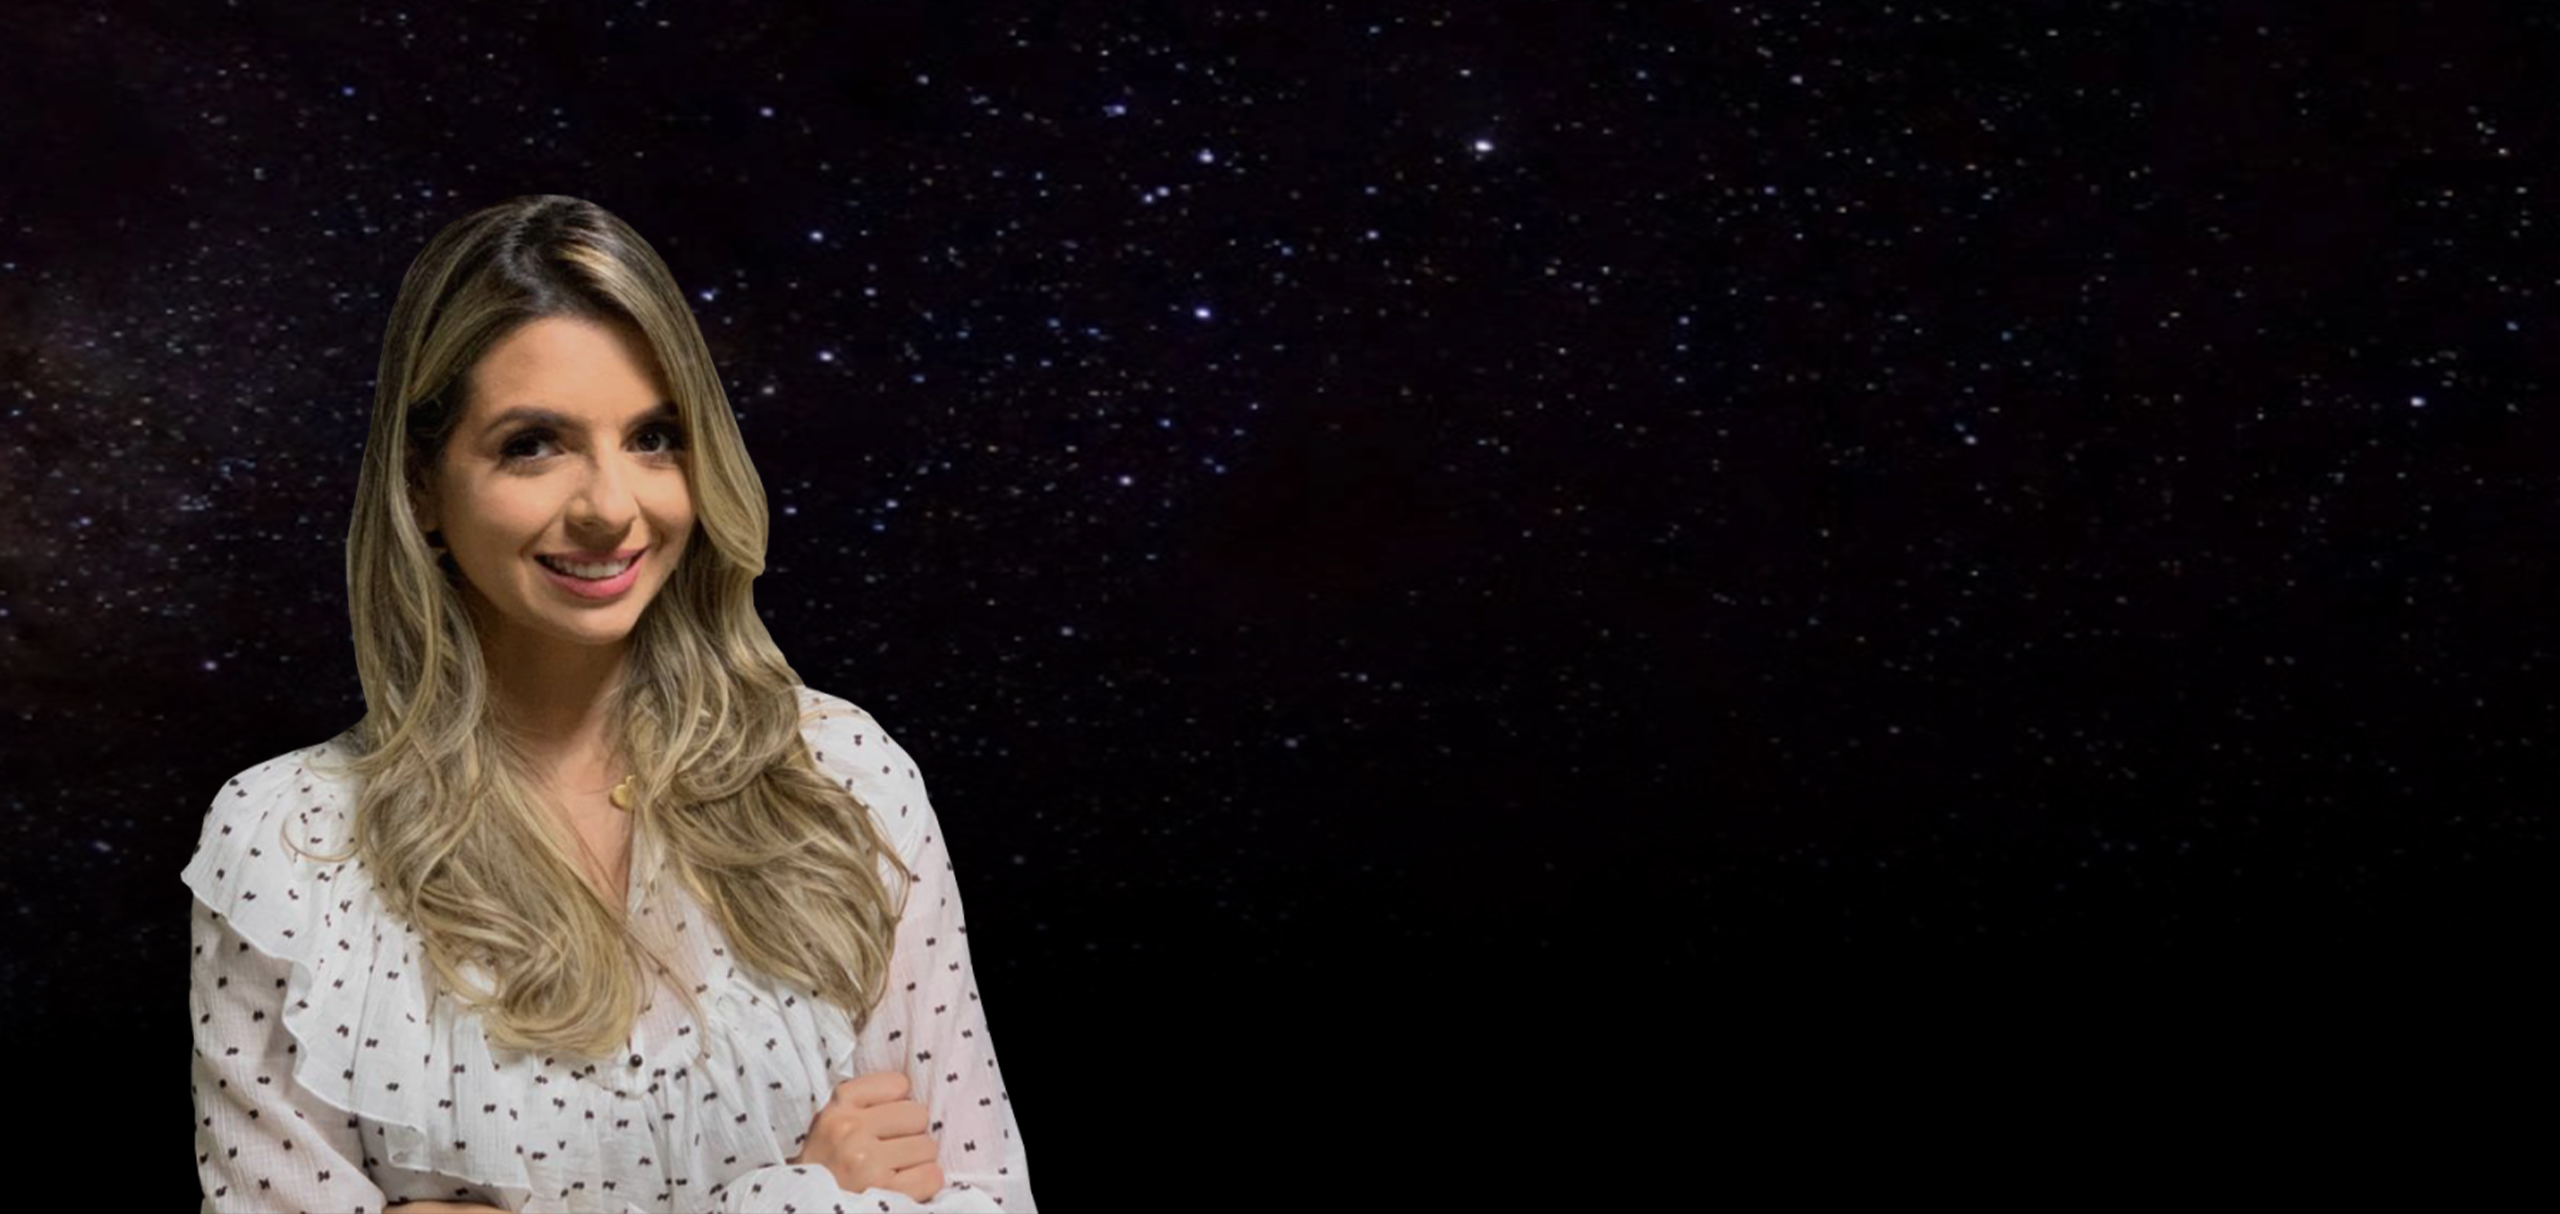
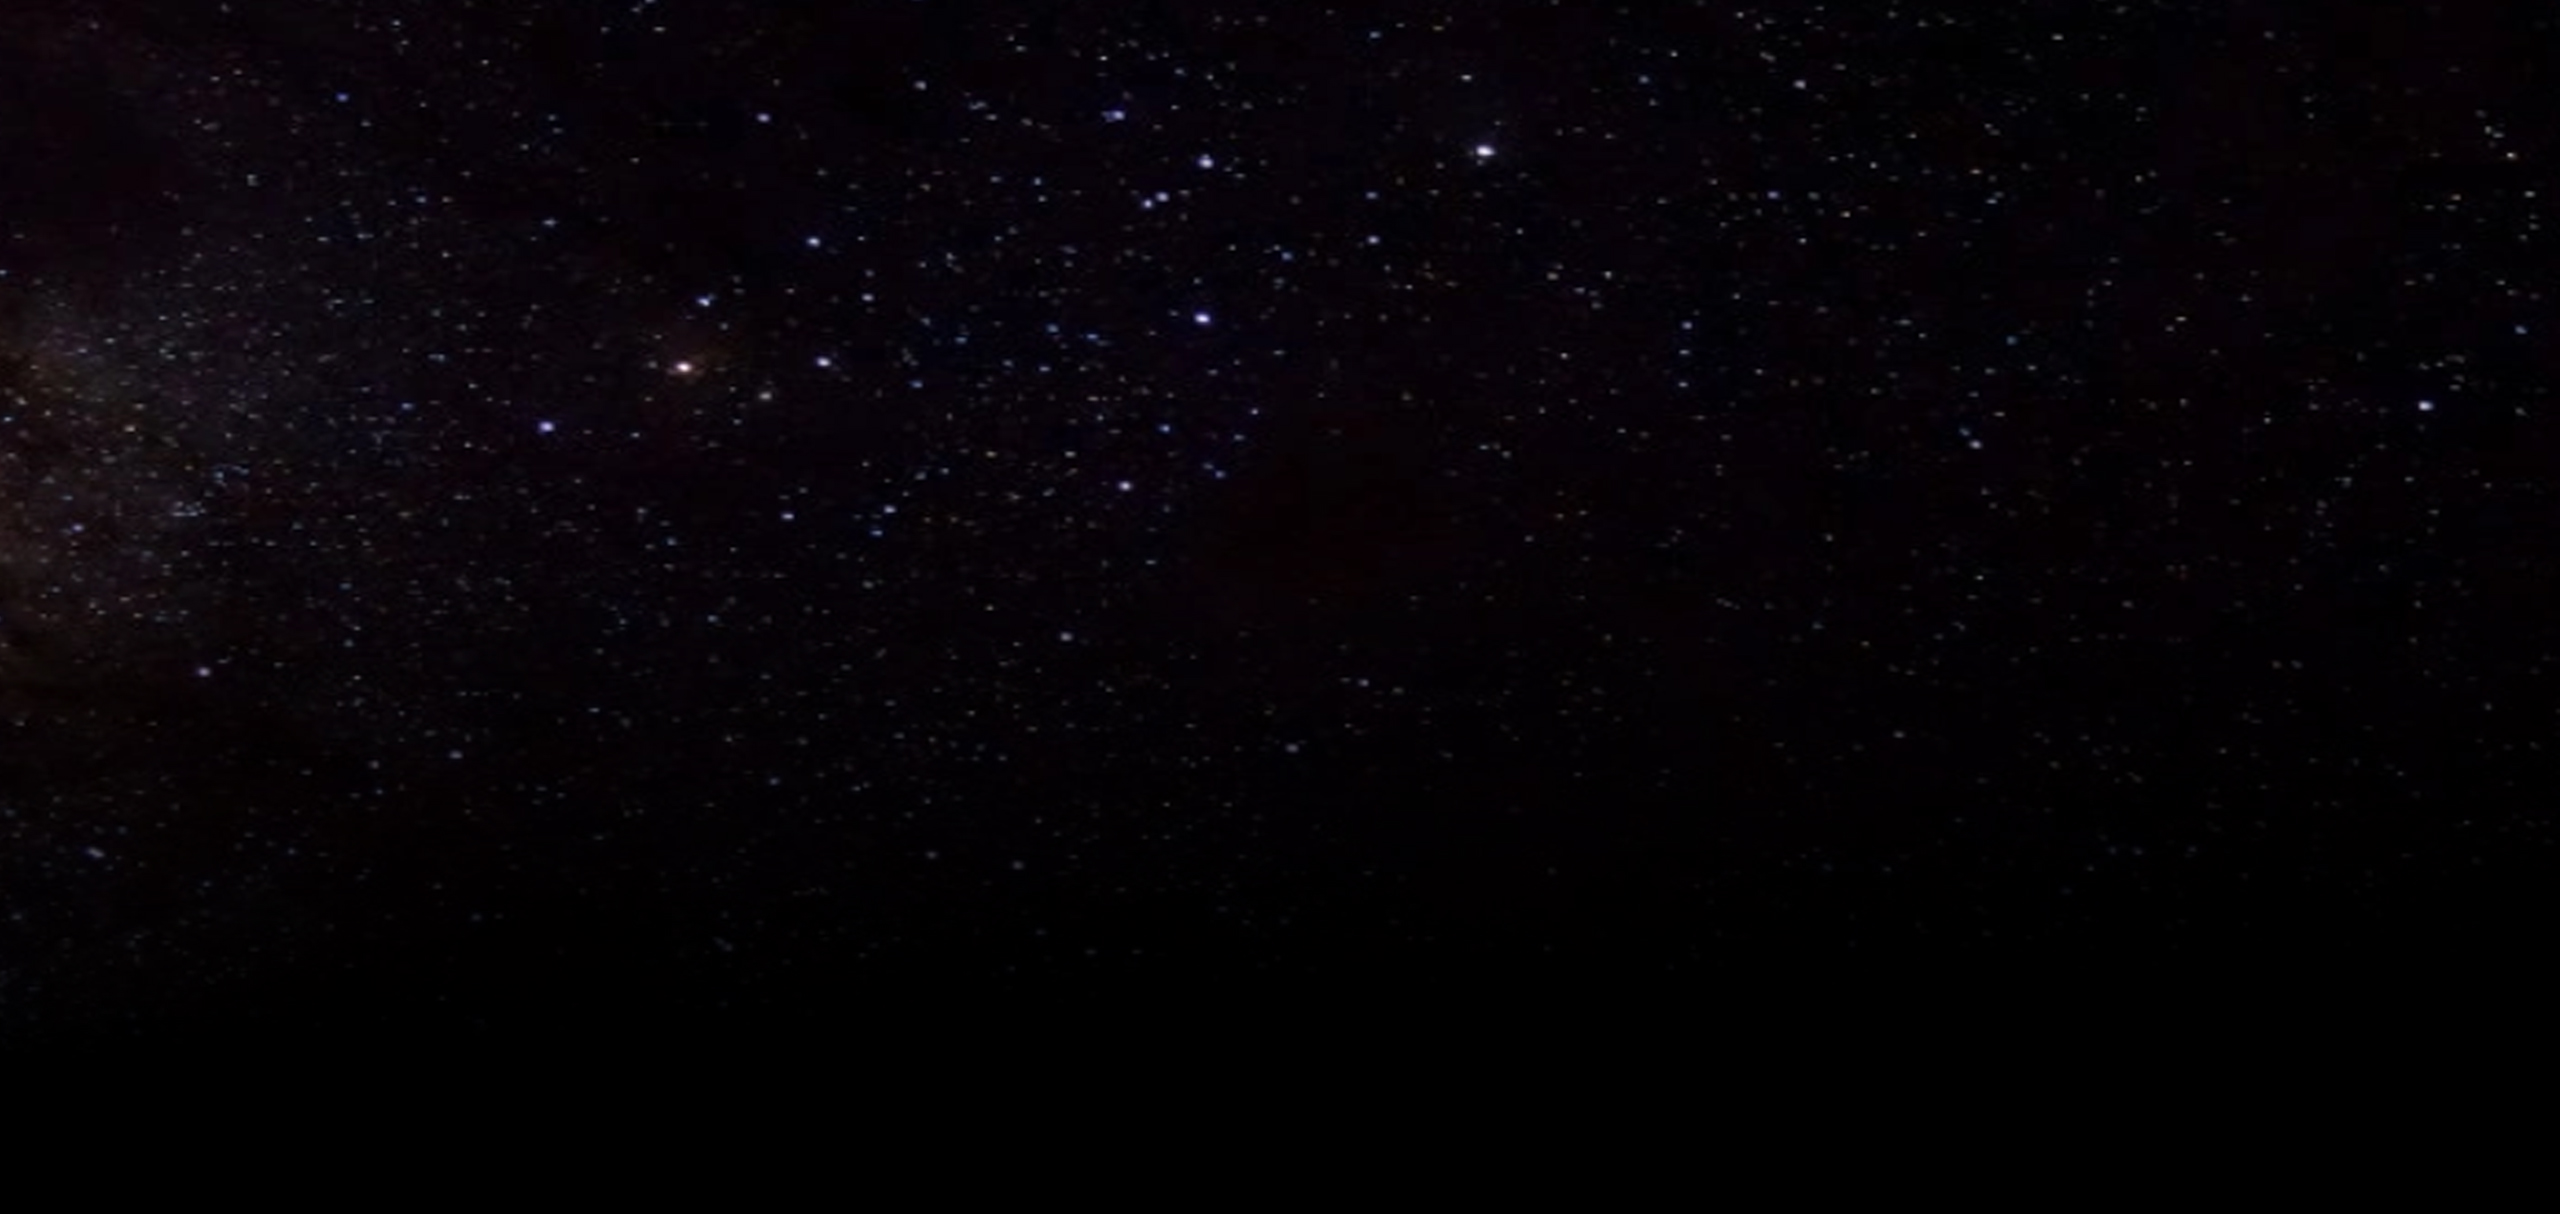
respnssiveness test 2

diff --git a/components/SectionTop/styles.tsx b/components/SectionTop/styles.tsx
@@ -7,23 +7,22 @@ interface ISectionTop {
 export const SectionTop = styled.section`
   position: relative;
   display: flex;
-  flex-direction: column;
-  justify-content: space-between;
-  align-items: flex-end;
-  padding-top: 2.5vw;
-  padding-bottom: 4vw;
-  padding-right: 15vw;
+  flex-wrap: wrap;
+  justify-content: space-evenly;
+  align-items: center;
 
   width: 100vw;
-  height: 100vh;
+  /* min-height: 100vh; */
   min-height: 100vh;
+
+  /* padding: 0 2.5vw; */
+  overflow: hidden;
 
   background-color: #081024;
   background-image: url(${(p: ISectionTop) => p.bgImg});
 
   background-repeat: no-repeat;
   background-size: cover;
-  /* background-position: top 0px left -100px; */
 `;
 
 export const CurveSvg = styled.svg`
@@ -37,34 +36,66 @@ export const CurveSvg = styled.svg`
 `;
 export const SectionTopImg = styled.img`
   width: 360px;
+  max-width: 90vw;
 
   height: 90px;
+
+  @media (max-width: 1067px) {
+    /* position: absolute; */
+    /* top: 10px; */
+    width: 95vw;
+    height: 23.75vw;
+  }
 `;
 
 export const TopSectionContentContainer = styled.div`
-  height: 100%;
-  max-width: 95%;
   display: flex;
   flex-direction: column;
+  /* max-width: 95%; */
+  min-height: 80vh;
   align-items: center;
   justify-content: space-between;
+  margin-bottom: 20px;
+  @media (max-width: 1067px) {
+    margin-top: 20px;
+    min-height: fit-content;
+    width: 95vw;
+    gap: 20px;
+  }
 `;
 
 export const AtributeList = styled.ul`
-  flex: 1;
+  /* flex: 1; */
   display: flex;
   flex-direction: column;
   justify-content: space-evenly;
+  gap: 2vh;
   li {
     display: flex;
     justify-content: center;
     line-height: 3rem;
-    align-self: center;
+    align-self: flex-start;
     font-weight: 600;
     font-size: 2rem;
     color: var(--primary-color);
     list-style: none;
     text-shadow: 0 0 12px #ffffff;
     gap: 2rem;
+  }
+`;
+
+export const MainRosiImg = styled.img`
+  margin-top: 100px;
+  align-self: flex-end;
+  width: 30vw;
+  min-width: 300px;
+
+  max-width: 95vw;
+  @media (max-width: 1067px) {
+    margin-top: calc(23.75vw + 10px);
+    width: 95vw;
+  }
+  @media (max-width: 900px) {
+    display: none;
   }
 `;

diff --git a/components/SectionTop/index.tsx b/components/SectionTop/index.tsx
@@ -5,6 +5,7 @@ import { VscFeedback } from 'react-icons/vsc';
 import {
   AtributeList,
   CurveSvg,
+  MainRosiImg,
   SectionTop,
   SectionTopImg,
   TopSectionContentContainer,
@@ -14,6 +15,7 @@ const TopComponent: React.FC = () => {
   return (
     <>
       <SectionTop bgImg="/main-bg-img.jpg">
+        <MainRosiImg src="/rosi-picture.png" alt="Rosi picture" />
         <TopSectionContentContainer>
           <SectionTopImg src="/logotype.png" />
 
@@ -22,12 +24,21 @@ const TopComponent: React.FC = () => {
               <FiTarget
                 color="red"
                 size={50}
-                style={{ backgroundColor: 'white', borderRadius: '50%' }}
+                style={{
+                  backgroundColor: 'white',
+                  borderRadius: '25px',
+                  minHeight: '50px',
+                  minWidth: '50px',
+                }}
               />
               Especialista em liderança e Gestão de Pessoas
             </li>
             <li>
-              <VscFeedback color="white" size={50} />
+              <VscFeedback
+                color="white"
+                size={50}
+                style={{ minHeight: '50px', minWidth: '50px' }}
+              />
               Mentoria de Liderança e Carreira
             </li>
           </AtributeList>

diff --git a/components/PageMain/index.tsx b/components/PageMain/index.tsx
@@ -1,11 +1,28 @@
 import styled from 'styled-components';
 
 const PageMain = styled.main`
-  display: grid;
-  place-content: center;
-  place-items: center;
+  display: flex;
+  flex-direction: column;
   min-height: 100vh;
-  min-width: 100vw;
+  width: 100vw;
+  scrollbar-width: thin;
+  scrollbar-color: var(--Ink) transparent;
+  overflow-y: auto;
+  overflow-x: hidden;
+  ::-webkit-scrollbar {
+    width: 5px;
+  }
+
+  /* Track */
+  ::-webkit-scrollbar-track {
+    background: none;
+  }
+
+  /* Handle */
+  ::-webkit-scrollbar-thumb {
+    background: var(--Ink);
+    border-radius: 5px;
+  }
 `;
 
 export default PageMain;

diff --git a/components/LandingForm/styles.tsx b/components/LandingForm/styles.tsx
@@ -4,11 +4,12 @@ import styled from 'styled-components';
 export const Form = styled(Unform)`
   z-index: 10;
   padding: 1rem;
-  margin-right: 45px;
+  /* margin-right: 45px; */
   /* margin-top: 200px; */
   width: 245px;
+  margin-bottom: 20px;
 
-  height: 350px;
+  height: fit-content;
   display: flex;
   flex-direction: column;
   border-radius: 2rem;
@@ -33,6 +34,7 @@ export const Form = styled(Unform)`
     align-self: flex-end;
     color: var(--darkerPrimary-color);
     font-size: 0.6rem;
+    background-color: transparent;
   }
 `;
 

diff --git a/styles/GolbalStyles.tsx b/styles/GolbalStyles.tsx
@@ -7,6 +7,24 @@ const GlobalStyles = createGlobalStyle`
     margin: 0;
     padding: 0;
     box-sizing: border-box;
+    scrollbar-width: thin;
+  scrollbar-color: var(--primary-color) transparent;
+  overflow-y: auto;
+  overflow-x: hidden;
+  ::-webkit-scrollbar {
+    width: 5px;
+  }
+
+  /* Track */
+  ::-webkit-scrollbar-track {
+    background: none;
+  }
+
+  /* Handle */
+  ::-webkit-scrollbar-thumb {
+    background: var(--primary-color);
+    border-radius: 5px;
+  }
   }
 
 html {

diff --git a/components/Input/styles.tsx b/components/Input/styles.tsx
@@ -6,7 +6,7 @@ interface IInput {
 export const FormField = styled.div`
   margin: 0;
   padding: 0;
-  height: 62px;
+  height: 65px;
 
   display: flex;
   flex-direction: column;
